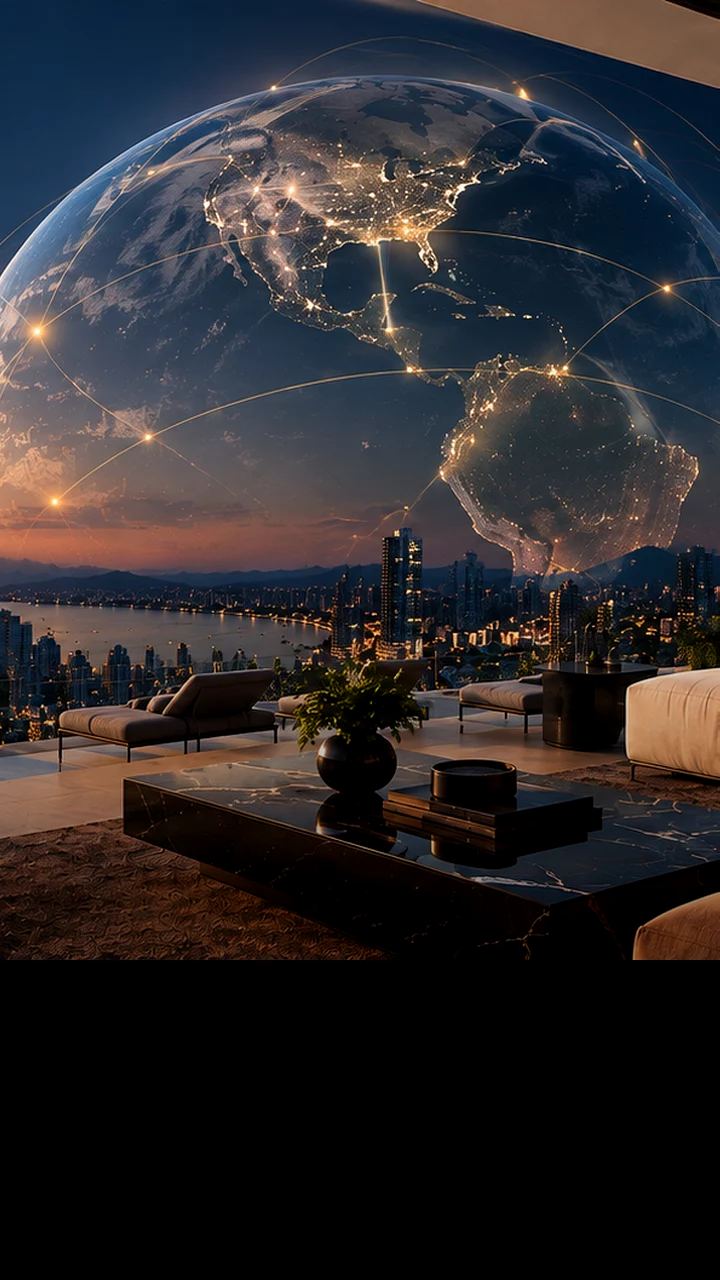
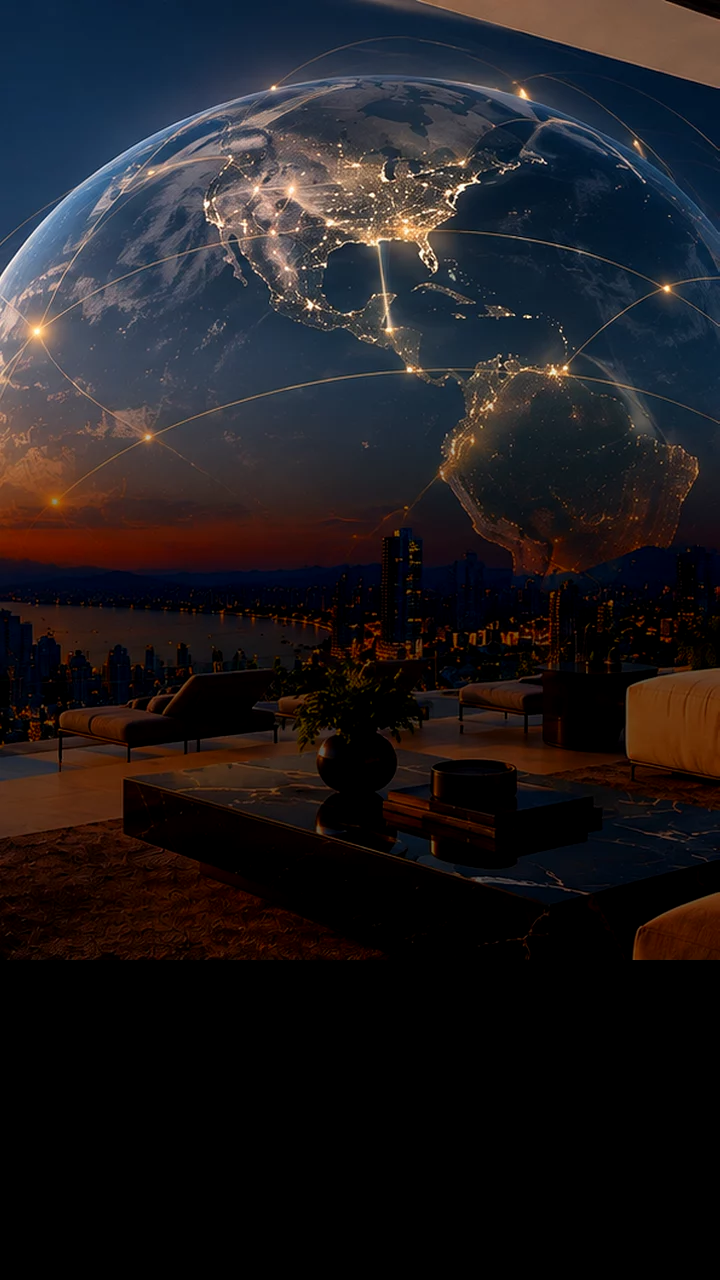
Home: a frase de apoio no estilo do rotulo, maiusculas espacadas
Ela, 14/10: "quero essa fonte no textinho, nao ta essa" (o print do
rotulo "CONSULTORIA IMOBILIARIA EXCLUSIVA"). A frase de apoio passa a
ter o estilo inteiro do rotulo: a mesma familia, peso 500, maiusculas
com espacamento de 0,18em, um pouco maior que o rotulo e com a
entrelinha aberta, porque sao duas ou tres linhas. Com o bloco de
texto mais alto, no celular o titulo subiu para cima das luzes da
cidade: a imagem do celular ganhou o escurecimento de baixo comecando
mais em cima (fotos/abertura-sala-cel.webp).

Changed region(s): [[0.0, 0.3125, 1.0, 0.75]]

diff --git a/index.html b/index.html
@@ -676,19 +676,22 @@
   }
   /* a frase de apoio fixa do cliente (09/10/2026), no lugar da que girava.
      14/10/2026, ela: "deixe a mesma fonte do Consultoria imobiliaria
-     exclusiva": a mesma familia do rotulo (.rotulo, var(--sans)), em
-     caixa normal e num corpo de leitura, nao nas maiusculas espacadas de
-     10,5px do rotulo, que numa frase de duas linhas cansariam. */
+     exclusiva" e, quando veio so a familia em caixa normal, "quero essa
+     fonte no textinho, nao ta essa": e o estilo inteiro do rotulo (.rotulo),
+     maiusculas espacadas, peso 500; um pouco maior que os 10,5px do rotulo e
+     com a entrelinha aberta, porque sao duas ou tres linhas. A cor segue
+     marfim, que e a do texto; o rotulo e champagne por ser o fio de cima. */
   .abertura-apoio {
     margin: 0 0 clamp(26px, 3.4vh, 40px);
     font-family: var(--sans);
     font-style: normal;
-    font-weight: 400;
-    font-size: clamp(15px, 1.1vw, 17px);
-    letter-spacing: 0.02em;
-    line-height: 1.6;
+    font-weight: 500;
+    font-size: clamp(11.5px, 0.85vw, 13px);
+    letter-spacing: 0.18em;
+    text-transform: uppercase;
+    line-height: 1.95;
     color: var(--marfim);
-    max-width: 52ch;
+    max-width: 56ch;
   }
   .giro-mascara { display: grid; overflow: hidden; }
   .giro-frase {
@@ -2690,7 +2693,10 @@
     .rotulo--vivo > span { white-space: nowrap; }
     .rotulo--vivo i { display: inline-block; width: 22px; margin: 0 10px; vertical-align: middle; }
     .abertura-giro { font-size: 19px; max-width: none; }
-    .abertura-apoio { font-size: 18px; max-width: none; }
+    /* (14/10) a frase de apoio em maiusculas espacadas: no celular, 12px e
+       entrelinha 1,9 (18px virava sete linhas e empurrava o titulo para
+       cima das luzes do globo) */
+    .abertura-apoio { font-size: 12px; letter-spacing: 0.16em; line-height: 1.9; max-width: none; }
     .abertura-servicos { display: grid; grid-template-columns: repeat(2, minmax(0, 1fr)); gap: 2px 18px; }
     .abertura-nome { font-size: 20px; }
     .rolar { display: none; }

diff --git a/README.md b/README.md
@@ -722,10 +722,16 @@ O manual pede movimento discreto, entao cada efeito tem uma razao.
   eram tracados nas coordenadas do print; a camera que respira continua.
   No mesmo pedido, o titulo virou **"Seu patrimonio / sem fronteiras"**
   (segunda parte em italico, como antes; a descricao da pagina acompanhou)
-  e a frase de apoio ganhou **a fonte do rotulo** (`var(--sans)`, caixa
-  normal, 15 a 17px). Para gerar opcoes novas a partir da home, o
-  `opcao_imagem_gerar.cjs` passou a aceitar `abertura-<nome>*.webp` e a
-  home sem o canvas.
+  e a frase de apoio ganhou **a fonte do rotulo**: primeiro so a familia
+  (`var(--sans)`, caixa normal), e com "quero essa fonte no textinho, nao
+  ta essa" o estilo inteiro do rotulo, maiusculas espacadas (0,18em), peso
+  500, 11,5 a 13px, entrelinha 1,95. Com o bloco de texto mais alto, no
+  celular o titulo subiu para cima das luzes da cidade (rotulo 3,6:1,
+  "patrimonio" 4,1:1): a imagem do celular passou a escurecer de baixo a
+  partir de 28% da altura (parametros `YB` e `LARG` do `imagem_opcao.sh`,
+  9o e 10o), e tudo voltou a >= 4,5:1. Para gerar opcoes novas a partir
+  da home, o `opcao_imagem_gerar.cjs` passou a aceitar
+  `abertura-<nome>*.webp` e a home sem o canvas.
 
   **Opcoes em paginas publicas (13/10/2026):** ela pediu "outro link que
   outras pessoas consigam ver sem estar logadas na Vercel, sem mudar o
